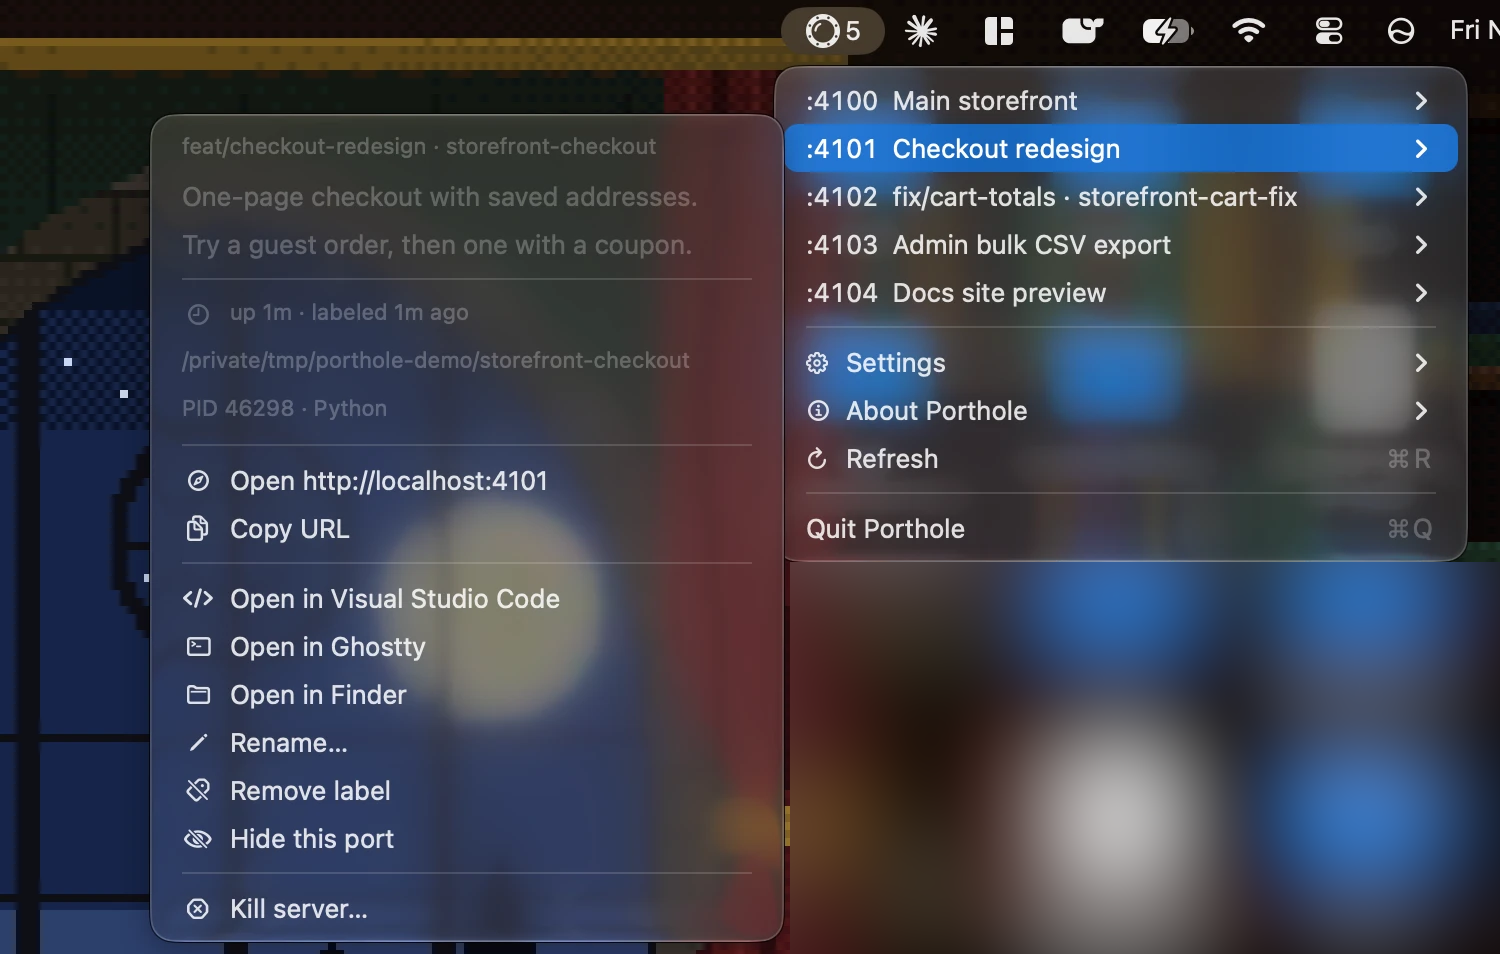
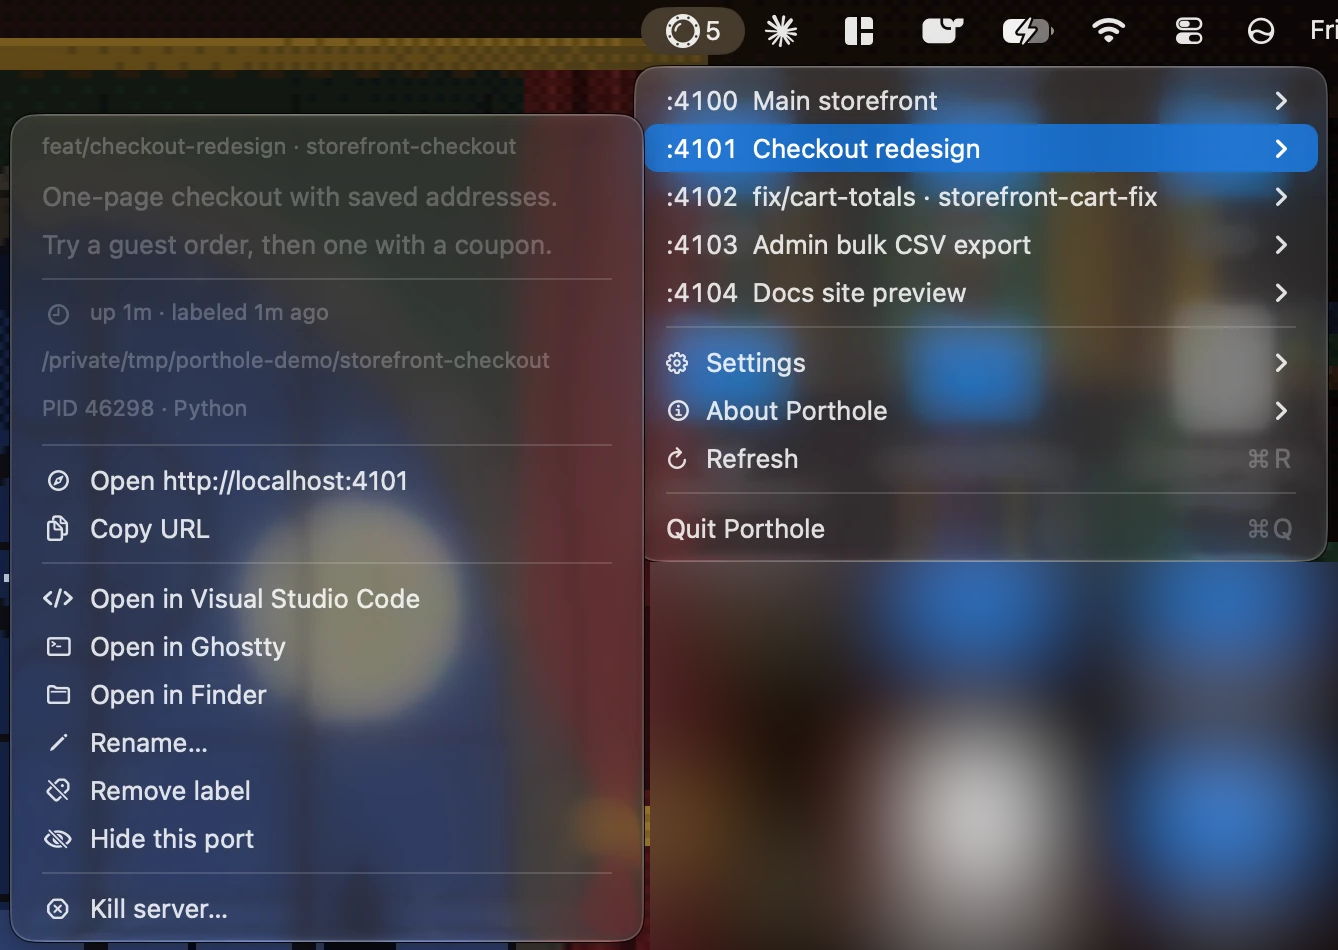
Crop README screenshots to the menus

diff --git a/README.md b/README.md
@@ -9,7 +9,7 @@
 When you have three checkouts, two worktrees and a Docker stack all serving something on `localhost`, it's hard to remember that `:4100` is your main storefront and `:4102` is yesterday's cart-totals fix. Porthole gives every port a name. Your agent (Claude Code, Codex, Cursor or any MCP client) labels the dev server it just started, and the menu shows the label next to the port with its branch, folder and uptime.
 
 <p align="center">
-  <img src="assets/screenshots/menu.png" alt="Porthole menu listing five localhost ports with their labels" width="480">
+  <img src="assets/screenshots/menu.png" alt="Porthole menu listing five localhost ports with their labels" width="400">
 </p>
 
 ## Features
@@ -24,7 +24,7 @@ When you have three checkouts, two worktrees and a Docker stack all serving some
 - **A real Mac app.** Porthole is a small native menu bar app. **Quit Porthole** (⌘Q) stops it completely; open it again from Spotlight or Applications. Turn on **Settings → Launch at login** to start it automatically.
 
 <p align="center">
-  <img src="assets/screenshots/submenu.png" alt="A port's submenu: branch, description, uptime, folder, PID, and actions to open, copy, open in editor, terminal or Finder, rename, remove the label, hide or kill" width="720">
+  <img src="assets/screenshots/submenu.png" alt="A port's submenu: branch, description, uptime, folder, PID, and actions to open, copy, open in editor, terminal or Finder, rename, remove the label, hide or kill" width="680">
 </p>
 
 Each port's submenu shows the branch, uptime, label age, folder and PID, and these actions:
